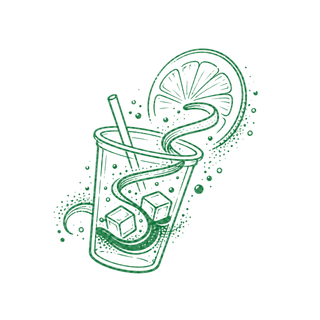
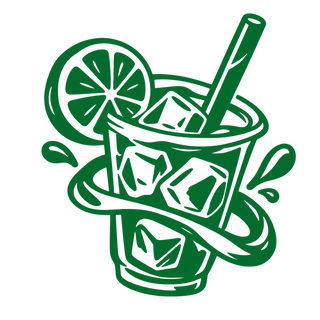
POLISH-01: restore sellable catalog products

diff --git a/src/data/localCatalog.ts b/src/data/localCatalog.ts
@@ -251,6 +251,35 @@ export function saveLocalProduct(context: CatalogContext, input: ProductSaveInpu
       },
       createdAt: now,
     });
+    if (!existing) {
+      const sizeId = `${localId}:size:regular`;
+      await database.run(
+        `INSERT INTO product_sizes
+          (id, product_id, key, name, price_centimes, sort_order, is_default,
+           status, revision, updated_at)
+         VALUES (?, ?, 'regular', 'Regular', ?, 10, 1, ?, 1, ?)`,
+        [sizeId, localId, input.basePriceCentimes, input.status, now],
+        false,
+      );
+      await enqueueManagementOperation(database, {
+        deviceId: context.deviceId,
+        operationType: 'management.product-size.save',
+        localRecordId: sizeId,
+        dependsOnOperationId: operation.operationId,
+        requiredPermission: 'products',
+        actor: context.actor,
+        payload: {
+          productId: localId,
+          key: 'regular',
+          name: 'Regular',
+          priceCentimes: input.basePriceCentimes,
+          sortOrder: 10,
+          isDefault: true,
+          status: input.status,
+        },
+        createdAt: now,
+      });
+    }
     return { id: localId, revision, operationId: operation.operationId };
   });
 }

diff --git a/BRAND.md b/BRAND.md
@@ -157,10 +157,11 @@ Olaso should feel like a club people naturally belong to, not a formal or precio
   acceptance remains part of the planned whole-app review and HARD-08.
 - The owner-approved real-menu set replaces the coffee, tea, cold-drinks, and
   bakery gallery files with four coordinated editorial illustrations: modern
-  iced coffee with portafilter motion, matcha with tea leaf and powder motion,
-  citrus cold drink, and filled croissant with soft serve. They keep the same
-  true-alpha 320 by 320 lossless WebP contract and existing artwork keys; no new
-  runtime image mechanism is introduced.
+  iced coffee with portafilter motion, matcha with tea leaf and whisk, citrus
+  cold drink, and croissant with soft serve. They use compact, bold, high-weight
+  Operational Green silhouettes so they remain visible at category-card size,
+  keep the true-alpha 320 by 320 lossless WebP contract and existing artwork
+  keys, and add no runtime image mechanism.
 
 ## 4. Color
 

diff --git a/src/data/AGENTS.md b/src/data/AGENTS.md
@@ -102,6 +102,9 @@ tablet's local SQLite operational record.
   updates. Domain cards still own their business validation and record changes.
 - `localProductConfiguration.ts` owns local-first product-size and choice-section
   replacement, safe size deletion, and independent choice copying.
+- `localCatalog.ts` creates a new product and its active default Regular size
+  in one local transaction; the size operation depends on the product operation
+  so a newly saved product is immediately sellable offline and after sync.
 - `localInventory.ts` owns ingredient, purchase, valuation, and stock-
   adjustment transactions. Opening quantity with a paid price is committed as
   the first purchase in the same transaction. `localCosts.ts` owns

diff --git a/src/features/products/AGENTS.md b/src/features/products/AGENTS.md
@@ -41,7 +41,8 @@ recipe management with saved tablet presentation during an outage.
   icon stays in the leading gutter. Table rows show the product name only;
   the product code stays on Edit Product. Add product, Add category, and Add
   ingredient keep their compact layouts with larger type and 47-pixel fields.
-  Add product is name plus photo on one row, category and price on the next.
+  Add product is name plus photo on one row, category and price on the next;
+  saving creates its first active Regular size at that price automatically.
   Sizes keeps name, price, order, availability, default, and delete on one
   line with a shared header row. Photos are
   compressed to a small JPEG on the tablet before SQLite or Convex. They

diff --git a/DESIGN.md b/DESIGN.md
@@ -583,6 +583,9 @@ Motion is restrained: 125 to 200 milliseconds for color, opacity, and state-laye
 - Artwork stays decorative, right-aligned behind the text layer, right-sized for
   the 234 by 120 card, and available offline. Do not generate it at runtime or
   use generic stock coffee imagery.
+- Artwork must retain a compact, bold silhouette with substantial opaque green
+  weight at card size. Do not use sparse technical line drawings that disappear
+  on the inactive white card.
 
 ## Accessibility and Operational Safety
 

diff --git a/PRODUCT.md b/PRODUCT.md
@@ -297,6 +297,10 @@ price, size, choice, recipe, and ingredient-cost snapshots.
 
 ### Sizes, options, and extras
 
+Saving a new product immediately creates one active default `Regular` size at
+the entered product price, so it can be sold without a second setup step.
+Additional sizes remain optional and editable per product.
+
 The supplied menu may include familiar choices such as:
 
 - Standard and plus sizes.
